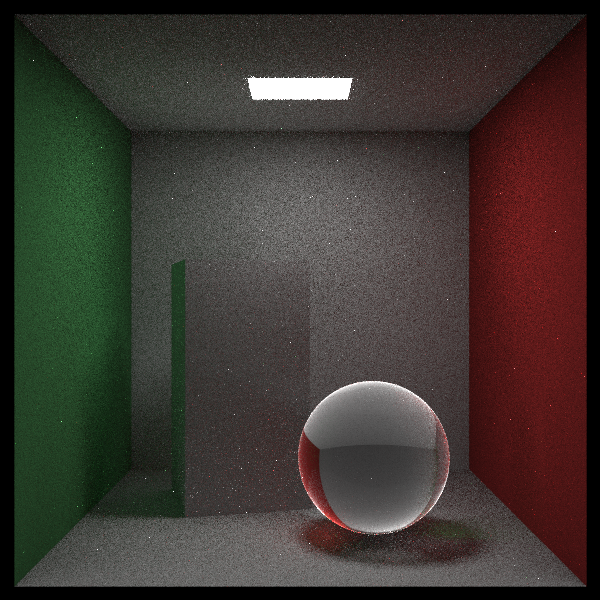
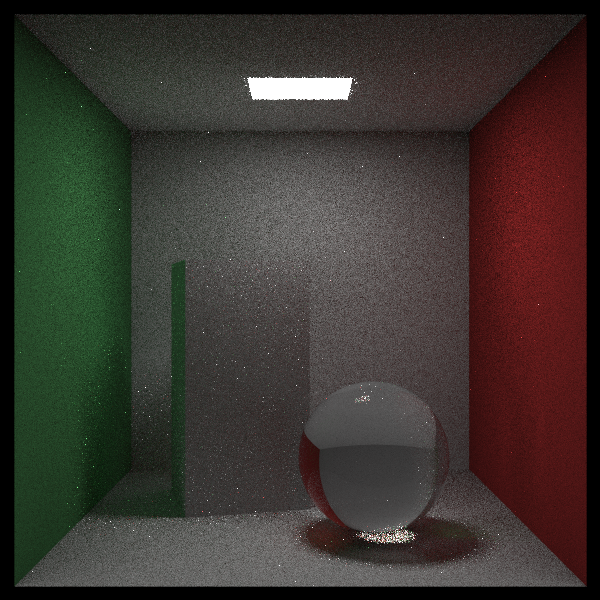
Fixed caustics and improved the fireflies by eliminating the delta surface concepts

diff --git a/src/bdptcamera.h b/src/bdptcamera.h
@@ -245,7 +245,7 @@ class bdptcamera {
             
             path.vertices.push_back(vertex);
             
-            if (vertex.isDelta)
+            if (false)
             {
                 throughput = throughput * bsdfSample.val / bsdfSample.pdf;
             }
@@ -349,7 +349,7 @@ class bdptcamera {
             
             path.vertices.push_back(vertex);
             
-            if (vertex.isDelta)
+            if (false)
             {
                 throughput = throughput * bsdfSample.val / bsdfSample.pdf;
             }
@@ -457,10 +457,10 @@ class bdptcamera {
         }
         
         // Cannot connect through delta interactions (specular surfaces)
-        if (cameraVertex.isDelta || lightVertex.isDelta)
-        {
-            return color(0, 0, 0);
-        }
+        // if (cameraVertex.isDelta || lightVertex.isDelta)
+        // {
+        //     return color(0, 0, 0);
+        // }
         
         // Evaluate BSDFs at both vertices
         color cameraBSDF = cameraVertex.rec.mat->Evaluate(

diff --git a/src/main.cc b/src/main.cc
@@ -80,7 +80,7 @@ int main() {
 
         bdptcam.aspect_ratio      = 1.0;
         bdptcam.image_width       = 600;
-        bdptcam.samples_per_pixel = 30;
+        bdptcam.samples_per_pixel = 25;
         bdptcam.max_depth         = 10;
         bdptcam.background        = color(0,0,0);
 

diff --git a/src/material.h b/src/material.h
@@ -367,6 +367,10 @@ public:
     return tex->value(u, v, p);
   }
 
+  color Evaluate(const vec3& wi, const vec3& wo, const hit_record& rec) const override
+  {
+    return tex->value(rec.u,rec.v,rec.p);
+  }
 
   color Emission(const vec3& wi, const hit_record& rec) const override
   {

diff --git a/README.md b/README.md
@@ -1,8 +1,13 @@
 Bidirectional Path Tracer
 ====================================================================================================
 
-![BDPT Output][current]
+![BDPT Output 25 Samples][current25]
 
+25 Samples
+
+![BDPT Output 1000 Samples][current1000]
+
+1000 Samples
 
 Background
 ------------------
@@ -72,4 +77,5 @@ $ cmake -B build/Debug -DCMAKE_BUILD_TYPE=Debug
 $ cmake --build build/Debug
 ```
 
-[current]:          images/bdpt.png
+[current25]:          images/bdpt.png
+[current1000]:          images/bdpt1000.png
